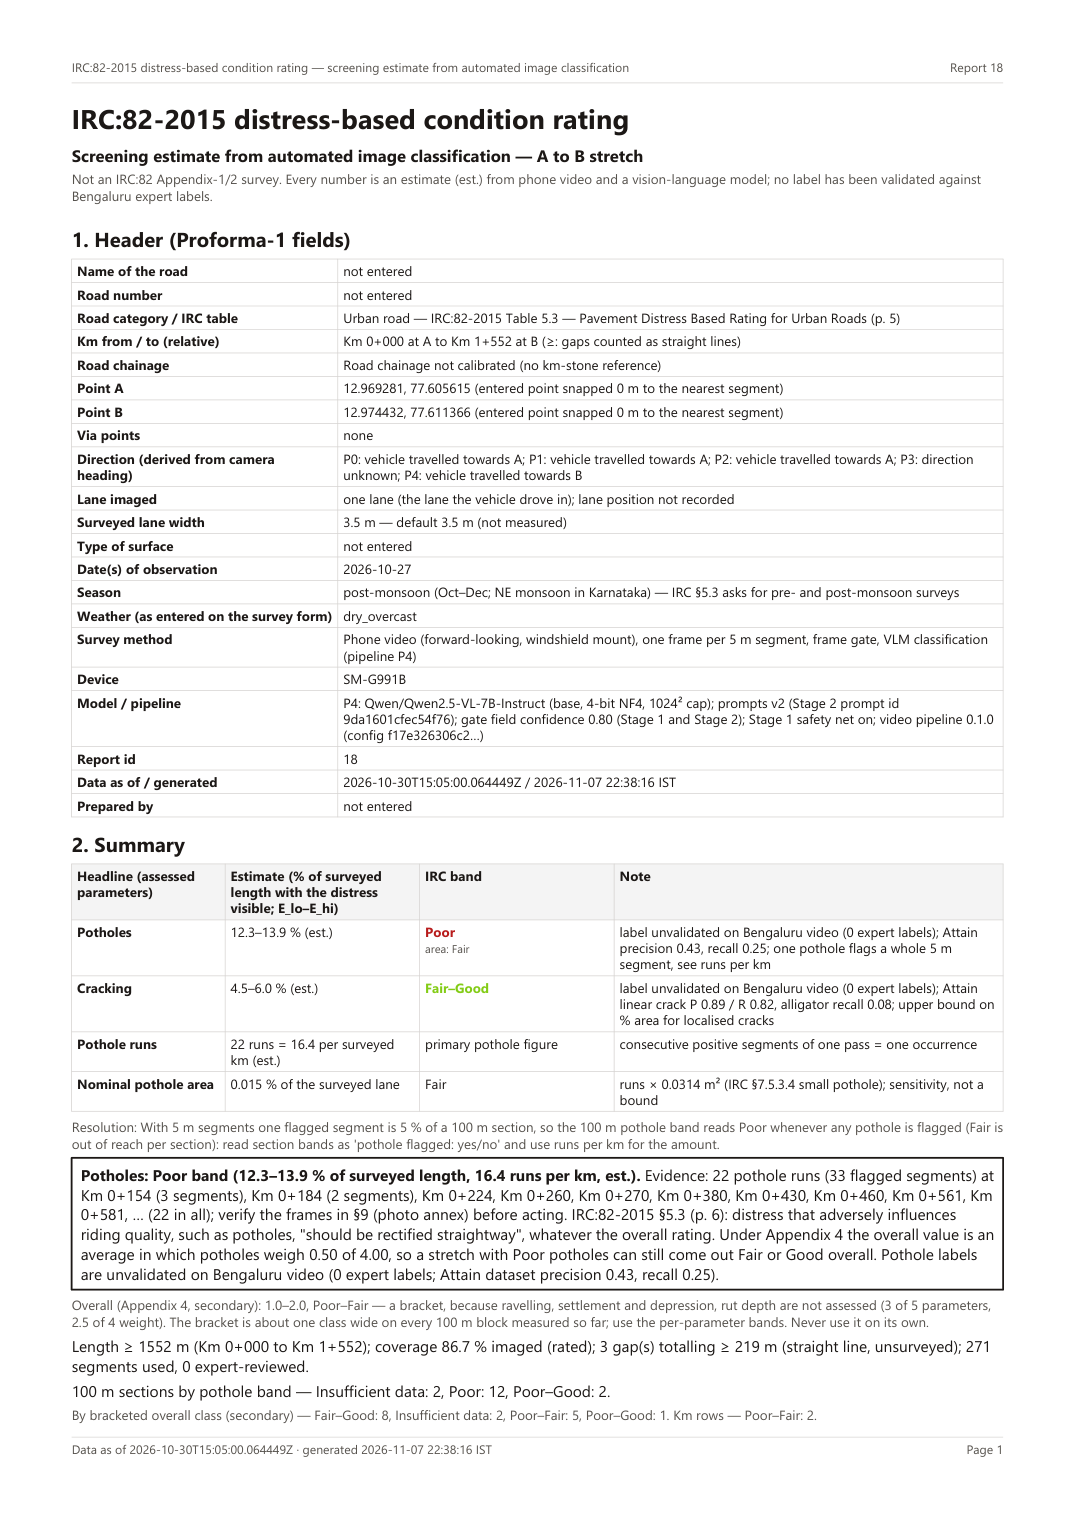
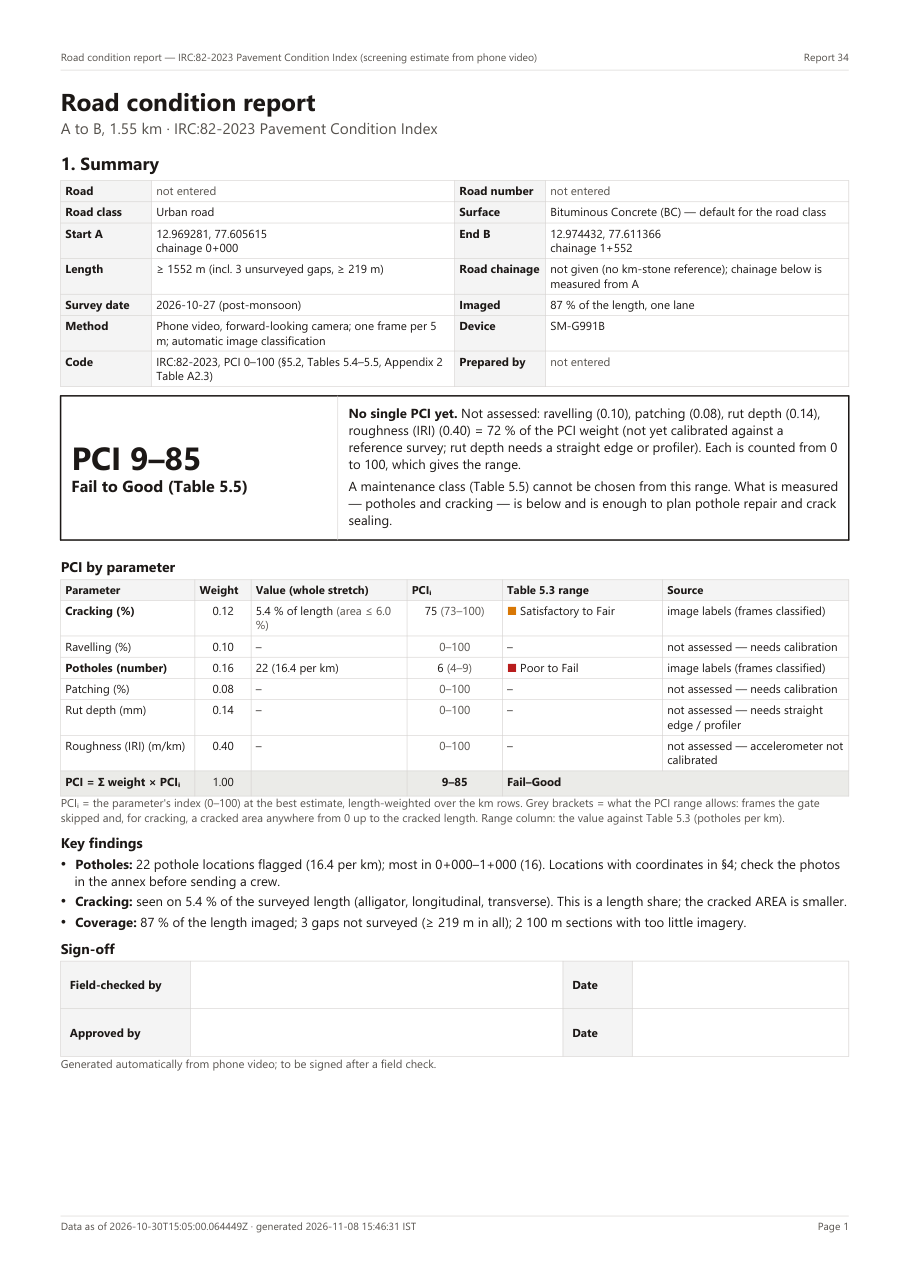
IRC:82-2023: samples regenerated (ids 33-40), paper §9.8, CLAUDE.md; resume file removed

Changed region(s): [[0.0615, 0.0311, 0.9231, 0.9635], [0.7385, 0.0932, 0.8923, 0.1243]]

diff --git a/paper/baseline_evaluation.md b/paper/baseline_evaluation.md
@@ -2,6 +2,8 @@
 
 ## Paper-Ready Sections + Technical Notes
 
+> **Revision 2026-11-08 — IRC:82-2023.** The A→B report now follows **IRC:82-2023 (Second Revision)**, which replaced the 2015 1–3 rating with a **Pavement Condition Index (PCI, 0–100)** over six parameters including roughness (IRI) (§9.8). Added: transcribed Appendix-2 equations with a worked-example check; per-type probe scores on all 7,050 video segments; a phone-accelerometer roughness feature on all drives; a survey calibration/blind-test tool with a pre-registered split; eight sample reports regenerated (ids 33–40). §9.1–9.7 are kept as the 2015 record.
+
 > **Revision 2026-11-07 — chainage and IRC:82 condition rating.** Added §9: relative chainage along the surveyed track and the IRC:82-2015 distress-based rating (Tables 5.1–5.3, Appendix 4) for any stretch A→B picked in the WebGIS, with a downloadable report, eight pre-registered sample reports, validation and three rounds of independent review. Two statements in §8.9 corrected ("% of length" is not IRC's area; chainage now derived).
 >
 > **Revision 2026-09-23.** Added: field-restricted Stage 2 confidence (§3.4), threshold
@@ -1425,7 +1427,7 @@ A drive appears on the GIS map when it is stored: the GIS reads the database dir
 
 ---
 
-## 9. Chainage and an IRC:82-2015 Condition Rating for a Chosen Stretch (A → B)
+## 9. Chainage and an IRC:82 Condition Rating for a Chosen Stretch (A → B)
 
 A road engineer plans maintenance by stretch and by kilometre, not by photograph. This section adds the two
 quantities an Indian maintenance plan is written in — **chainage** and the **IRC:82-2015 distress-based
@@ -1527,12 +1529,12 @@ segments were relabelled afterwards is marked stale. Saving to the portal requir
 rate-limited per client; previews and downloads are open. API: `/gis/pci/{meta,path,report,report.pdf,
 report.csv,reports}`; storage `research.pci_reports` (migration 009).
 
-![Figure 9.1 — Route and strip chart of sample report 2 (random 1 km stretch, 27 Oct)](../eval_results/plots/paper/fig_9_1_sample_route_strip.png)
+![Figure 9.1 — Route page of sample report 34 (random 1 km stretch, 27 Oct)](../eval_results/plots/paper/fig_9_1_sample_route_strip.png)
 
-**Figure 9.1** — Page 2 of a sample report as produced by the server: the surveyed path over an OpenStreetMap
-street map, coloured by the pothole band each 100 m section's labels show (white dashes where gate-skipped frames
-could make it worse), chainage ticks from A, three unsurveyed gaps (dashed, "≥ 219 m" in total), and a location
-map with the surrounding localities.
+**Figure 9.1** — Page 2 of sample report 34 (IRC:82-2023 version, §9.8): the surveyed path over an OpenStreetMap
+street map, each 100 m section coloured by the worst Table 5.3 range of its measured parameters (not by PCI, which
+is still a range), pothole runs as rings, chainage ticks from A, three unsurveyed gaps (dashed), and a location map.
+Page 1 (summary, headline PCI range, the six-parameter table) is `fig_9_2_sample_page1.png`.
 
 ### 9.5 Results
 
@@ -1627,6 +1629,71 @@ The reviews are in `eval_results/pci/REVIEW_design.md`, `REVIEW_backend.md` and 
    per-parameter band from expert labels with those from model labels, with the block-bootstrap intervals used in
    §6. Calibrating one drive to a km stone, or measuring a few stretches with a measuring wheel, would give the
    missing chainage-length check.
+
+### 9.8 Move to IRC:82-2023: a 0–100 PCI, and what it takes to make it a single number
+
+**Why.** The owner plans to compare the report with an actual road survey, which will follow the current code.
+IRC:82-2023 (Second Revision; Council approval of the draft October 2022) replaced the 2015 method: §5.2 defines
+a **PCI from 0 to 100** = Σ wᵢ·PCIᵢ with weights **IRI 0.40, potholes 0.16, rut depth 0.14, cracking 0.12,
+ravelling 0.10, patching 0.08** (Table 5.4); PCIᵢ comes from per-class equations (Appendix 2, Tables A2.1–A2.3:
+highways, MDR/rural, urban); Table 5.5 maps the PCI to six classes (>90 Excellent … ≤20 Fail), each with a
+maintenance action. Potholes are now a **number** (area / 0.1 m², eq. 2), extents are over all lanes of a
+carriageway, sections 100–1000 m, and settlement and shoving are no longer rated. We read a third-party hosted copy
+whose title page is IRC's; the owner should confirm it against an official copy.
+
+**Equations.** Appendix 2 prints its equations as images; we transcribed them (`app/pci_irc2023.py`,
+`eval_results/pci/IRC82_2023.md`) and an independent critic agent re-read every coefficient from the page images
+(digit-for-digit agreement). Checks: every usable equation gives PCI ≈ 80 at the Tables 5.1–5.3
+Excellent-to-Good limit and ≈ 40 at the Satisfactory-to-Fair limit, and follows its printed curve. The three
+**highway** worked examples reproduce within 0.53 points (93.88 / 40.84 / 20.56 vs 93.58 / 41.37 / 20.54); the
+three **urban** examples do not (−1.6, −10.0, −7.1): the gap is the roughness term, which no printed curve gives
+(unexplained). Three printed equations are **not usable**: the MDR/rural pothole polynomial rises to 192 at 10
+potholes while its curve falls to 0 (a missing linear term near −19.25·PN would reproduce examples B.1–B.3 within
+1.4 points, but that is a reconstruction), and the rural roughness equations for surface dressing and mix-seal
+surfacing (an Excellent road scores 0.6). These are reported "not computable" and bracketed, never guessed.
+
+**What each parameter comes from** (in order; `app/pci_core.pci_unit`): a value entered from site; a calibrated
+per-type probe score (ravelling, patching, rut-depth proxy, or cracking/potholes); calibrated phone-accelerometer
+roughness (IRI); Stage 2 labels (cracking = % of surveyed length, an upper bound on % area; potholes = runs of
+consecutive pothole frames); otherwise **not assessed**, counted as PCIᵢ = 0 and 100, which gives the PCI range.
+A single PCI is printed only when all six have values and none comes from uncalibrated labels. The stretch PCI is
+the length-weighted mean of the km rows (IRC analyses 100–1000 m; a pothole count over a longer stretch is off the
+equations' scale).
+
+**New measurements.** (i) The per-type probe (§6.8) was run on all **7,050** stored segment images (1.8 s each,
+0 errors; `research.video_probe_scores`): it gives P(yes) for ravelling, patching and rutting, which the free-form
+list never names. These are scores, not labels: the Attain thresholds do not transfer (§6.8), so they become
+values only through calibration. (ii) The phone recorded its accelerometer at 200 Hz on every drive. The roughness
+feature is the RMS of vertical acceleration, 0.5–15 Hz (above that, the engine's ≈ 25 Hz firing line dominates),
+over each 5 m segment, speed-normalised (`app/pci_iri.py`, 8,110 usable segments). On synthetic quarter-car data
+it recovers the IRI ranking (Spearman 0.991 across a different car, mount and noise); on real data it separates
+pothole-labelled segments (AUC 0.68 [0.65, 0.72]); but the idle noise floor is high (0.26 vs 0.66 m/s² moving;
+pre-registered limit failed) and repeatability could not be tested (3 qualifying repeated 100 m blocks). A phone
+on a windshield of an unknown car gives **no absolute IRI** without calibration against a reference.
+
+**Results (eight sample reports, ids 33–40, urban).** With only cracking and potholes assessed (0.28 of the
+weight), every stretch PCI is a wide range — from 3–90 to 15–97, "Fail to Good" — and the median width over the
+151 rated 100 m sections is **79 points** (72–85). The report states this plainly (no single PCI, which parameters
+are missing and why) and gives what *is* actionable: pothole locations by chainage with photographs, cracking share,
+and the distress-specific treatments of IRC:82-2023 §7 with clause numbers.
+
+**Closing the gap: calibration on a reference survey, tested blind.** `scripts/pci_survey_compare.py` imports a
+survey (per section: start/end GPS, any of the six parameters, the survey's PCI). A split **registered before any
+survey data** (`eval_results/pci/survey_split_rule.json`) assigns alternate blocks of three consecutive sections to
+a calibration half and a test half. On the calibration half it fits, per parameter, a probe threshold and scale (or
+a label scale) by mean absolute error in PCIᵢ points, and the IRI calibration (log-linear in RMS and speed); a
+parameter is used only if it beats a constant in-sample. Agreement is reported **only on the test half**: MAE of
+the single PCI and of a **partial PCI** over the parameters both sides have (addendum, registered before data,
+because rut depth may stay unmeasurable), each beside a constant baseline with block-bootstrap CIs, Spearman ρ,
+Bland–Altman limits and Table 5.5 class agreement. A ledger marks any refit after a test as post hoc, and a
+calibration reaches production only after its own blind evaluation. The tool was checked end to end on a synthetic
+survey built from our own probe scores (it recovers the planted thresholds); that check shows the plumbing works and
+says nothing about accuracy. The split interleaves sections of the same roads, so the test measures transfer within
+the surveyed roads.
+
+**Limitations specific to 2023.** One lane is imaged while IRC extents and IRI are carriageway means; rut depth
+needs a straight edge or profiler and has only a weak image proxy; a pothole run is counted as one pothole of at
+least one 0.1 m² unit; the roughness calibration is specific to the car, the mount and the phone.
 
 ## Acknowledgements
 

diff --git a/CLAUDE.md b/CLAUDE.md
@@ -105,7 +105,7 @@ for everything below.
 | Worker time per upload | ~11 s at 1024² (272 s uncapped), + ~1.5 s shadow probe, + ~6.5 s recorded tiles | A5000 | §6.6, T7 |
 | Production review load | 213 of 361 uploads in expert_review | Bengaluru | T7.2 |
 | Grad-CAM of the probe vs location prior | pointing hit 0.258 vs 0.226, Δ +0.032 [−0.042, +0.130] — FAIL; pothole +0.31, suggested boxes IoU≥0.5 on ≤2% | Attain, 1,884 pairs | §6.10 |
-| IRC:82 condition rating, A→B (drive video) | overall Appendix-4 class never a single class (0 of 408 100 m blocks, bracket ≥ 1.0); pothole band at 100 m = presence flag (Fair 0/408); test–retest positive agreement 10/15 Distress [0.42, 0.85]; chainage length vs independent reference NOT measured | 43 drives, 8 pre-registered samples | §9 |
+| IRC:82-2023 PCI (0–100), A→B (drive video) | only cracking + potholes assessed (0.28 of the weight) → every PCI a range (samples 3–90 … 15–97; median width 79 points over 151 100 m sections); no single PCI until a reference survey calibrates ravelling/patching/IRI (rut depth: entered or proxy). Equations: highway examples within 0.53, urban examples off by −1.6/−10.0/−7.1 (unexplained), MDR/rural pothole + rural SD/MSS roughness equations unusable as printed. Phone-IMU roughness: pothole AUC 0.68, idle-noise check FAILED, repeatability untestable. 2015 record (Appendix-4 class never single, 0/408) kept in §9.1–9.7 | 43 drives, 8 pre-registered samples (ids 33–40) | §9.8 |
 | Weight-space programming (Stage 1, head 26.17 edit) | test recall 51.7% → 74.8%, MCC 0.208 → 0.333; recalibrated base (+1.56 logit) 77.1% / 0.352 — edit − recal MCC −0.019 [−0.036, −0.006] — NOT better; AUROC unchanged 0.957 | Attain test, 547 (1 run, 32/50 passes) | §6.11 |
 
 **What is decided (with evidence — don't re-litigate without new data):**
@@ -119,7 +119,7 @@ for everything below.
 | Probe in shadow, not live | doubles Attain macro MCC, but Attain thresholds add Ravelling to 98% of Bengaluru uploads | §6.8 |
 | Full photo, tiles recorded only | tiles +0.020 AUROC (CI incl. 0); find-then-zoom worse | §6.9, Fig 6.9 |
 | Grad-CAM only as an opt-in reference overlay (owner's request), never a box source | fails pre-registered rule vs location prior; maps are points, not regions; UI shows its hit rate, experts rate it | §6.10, §7.11 |
-| Condition rating = IRC:82-2015 Tables 5.1–5.3 + App. 4, never ASTM PCI; only cracking + potholes assessed, the rest bracketed 1–3; headline = per-parameter bands + pothole runs/km | ravelling/settlement never labelled (Poor unreachable otherwise); 3 critic rounds | §9, `eval_results/pci/` |
+| Condition rating = **IRC:82-2023 PCI 0–100** (§5.2, Tables 5.4–5.5, Appendix 2), moved from 2015 on 2026-11-08 at the owner's request; never ASTM; unknown parameters bracketed 0/100, never guessed; single PCI only when all six have values and none from uncalibrated labels; stretch PCI = length-weighted mean of km rows | the owner will compare with an actual survey that follows the current code; 3 critic rounds (2015) + 1 (2023, `REVIEW_2023.md`) | §9.8, `eval_results/pci/IRC82_2023.md` |
 | No weight edit in production (and no LoRA/QLoRA/PEFT ever, user's rule) | the best forward-pass-only edit only moves the Stage 1 threshold (every edit ≈ a logit shift, AUROC flat); a constant offset does it slightly better; Bengaluru Distress share 19.7% → 36.7%. If more Stage 1 recall is wanted: set an offset on expert-labelled Bengaluru frames | §6.11, §7.12, `eval_results/finetune/` |
 
 **Next steps, in order:**
@@ -153,7 +153,7 @@ for everything below.
    edit study needs new held-out data. Not attempted: editing the Stage 2 free-form list. The abandoned QLoRA plan
    (`scripts/ft_train.py`, `ft_eval.py`, `ABANDONED.md`) is kept unused. Memory: project_weight_space_programming.
 
-8. **A→B chainage + IRC:82 condition report (built 2026-11-07, paper §9):** WebGIS "Condition report" button (`webgis/pci.js`, `pci.css`) → `/gis/pci/{meta,path,report,report.pdf,report.csv,reports}` (`app/pci_core.py` rating, `pci_chainage.py` survey graph + relative chainage, `pci_report_pdf.py`, `pci_routes.py`; save needs the operator key; `research.pci_reports`, migration 009). 8 sample reports in production (ids 17–24; route figures over an OpenStreetMap street map via `app/pci_basemap.py`, tiles cached in `C:\GeoAI\pci\tile_cache`, `PCI_BASEMAP=0` turns it off) from the pre-registered rule `eval_results/pci/samples_rule.json`; after any PDF change run `scripts/pci_samples.py --database geoai --regenerate`, then `scripts/pci_validation.py --database geoai --redo samples`. Research/design/reviews/validation: `eval_results/pci/{RESEARCH,DESIGN,REVIEW_*,validation}.md`. Tests `scripts/tests/test_pci_*.py` (31); `test_local_db`/`test_expert_review` DROP `geoai_test` → re-run `scripts/pci_copy_to_test_db.py` after them. **Open:** expert labels on video sections (protocol §9.7); pothole labels look over-called (shadows); km-stone calibration or wheel-measured stretch for chainage length.
+8. **A→B chainage + IRC:82-2023 PCI report (built 2026-11-07, moved to IRC:82-2023 on 2026-11-08, paper §9/§9.8):** WebGIS "Condition report" button (`webgis/pci.js`, `pci.css`) → `/gis/pci/{meta,path,report,report.pdf,report.csv,reports}` (`app/pci_irc2023.py` equations, `app/pci_core.py` `pci_unit` (2015 rating kept internally), `pci_chainage.py` survey graph + relative chainage, `pci_report_pdf.py` + `pci_treatments_2023.py`, `pci_routes.py`; request takes `surface` and `entered` site values; save needs the operator key; `research.pci_reports`, migration 009). 8 sample reports in production (**ids 33–40**; OpenStreetMap basemap via `app/pci_basemap.py`, `PCI_BASEMAP=0` off). Regenerate after any PDF change: `scripts/pci_samples.py --database geoai --regenerate`, then `scripts/pci_validation.py --database geoai --redo samples` — **run them WITHOUT sourcing .env in bash** (it strips the backslashes from LOCAL_IMAGE_ROOT and every annex photo goes missing; the scripts read .env themselves). New data: per-type probe P(yes) on all 7,050 segments (`research.video_probe_scores`, migration 010, `scripts/video_probe_scores.py`); phone-IMU roughness features on all drives (`research.segment_roughness`, migration 011, `app/pci_iri.py`, `scripts/iri_from_imu.py`, `eval_results/pci/iri/`). **Survey comparison:** `scripts/pci_survey_compare.py check|fit|evaluate|promote SURVEY.csv` (template `eval_results/pci/survey_template.csv`; pre-registered split + addendum `eval_results/pci/survey_split_rule.json`; `fit` writes only candidates; `promote` copies to the live `eval_results/pci/param_calibration.json` + `iri/iri_calibration.json` only after a logged blind evaluate; never use `--out-dir` with the real survey). Tests `scripts/tests/test_pci_*.py` (72 incl. irc2023, survey, iri); `test_local_db`/`test_expert_review` DROP `geoai_test` → re-run `scripts/pci_copy_to_test_db.py` after them. **Open:** the reference survey (then fit → evaluate → promote → regenerate samples); owner to confirm the 2023 equations against an official IRC copy; expert labels on video; pothole labels over-called (shadows, manholes); km-stone calibration for chainage length.
 
 **Where things are:**
 - Research paper: `paper/baseline_evaluation.md` (§T7 = deployment record, test suites, incidents).

diff --git a/eval_results/pci/validation.md b/eval_results/pci/validation.md
@@ -1,6 +1,6 @@
 # Validation — A→B chainage and IRC:82-2015 condition rating
 
-Generated 2026-11-07T17:09:54+00:00 by `venv/Scripts/python.exe scripts/pci_validation.py --database geoai --redo samples` on database `geoai` (data as of 2026-10-30T15:05:00.064449Z). Every number below is from that run (`eval_results/pci/validation.json`).
+Generated 2026-11-08T10:17:12+00:00 by `venv/Scripts/python.exe scripts/pci_validation.py --database geoai --redo samples` on database `geoai` (data as of 2026-10-30T15:05:00.064449Z). Every number below is from that run (`eval_results/pci/validation.json`).
 
 ## 1. IRC arithmetic
 
@@ -102,14 +102,14 @@ Time-adjacent gaps: OSM route / straight line over 34 of 36 gaps with an OSM rou
 
 | id | rule | requested trip m | routed m | coverage | gaps | cracking band (E) | pothole band (E) | runs/km | overall (secondary) |
 |---|---|---|---|---|---|---|---|---|---|
-| 17 | longest_drive | – | 8309.6 | 0.992 | 0 (≥ 0 m) | Poor (18.1–22.4) | Poor (5.6–9.9) | 7.0 | Poor–Fair (ravelling, settlement and depression, rut depth not assessed) |
-| 18 | random_1km_2026-10-27_1 | 1000 | 1551.7 | 0.867 | 3 (≥ 219.0 m) | Fair–Good (4.5–6.0) | Poor (12.3–13.9) | 16.4 | Poor–Fair (ravelling, settlement and depression, rut depth not assessed) |
-| 19 | random_1km_2026-10-27_2 | 1000 | 1004.3 | 0.961 | 1 (≥ 50.5 m) | Poor (24.9–25.6) | Poor (12.4–13.1) | 19.7 | Poor–Fair (ravelling, settlement and depression, rut depth not assessed) |
-| 20 | random_1km_2026-10-27_3 | 1000 | 1004.4 | 0.940 | 1 (≥ 62.0 m) | Fair (7.9–9.2) | Poor (16.4–17.7) | 22.2 | Poor–Fair (ravelling, settlement and depression, rut depth not assessed) |
-| 21 | random_1km_2026-10-29_1 | 1000 | 1003.7 | 0.782 | 2 (≥ 233.4 m) | Good (1.3–2.0) | Poor (5.1–5.8) | 6.4 | Fair–Good (ravelling, settlement and depression, rut depth not assessed) |
-| 22 | random_1km_2026-10-29_2 | 1000 | 1024.3 | 0.888 | 1 (≥ 113.6 m) | Good (0.5–3.5) | Poor (1.1–4.0) | 1.1 | Fair–Good (ravelling, settlement and depression, rut depth not assessed) |
-| 23 | random_1km_2026-10-29_3 | 1000 | 1003.9 | 0.996 | 0 (≥ 0 m) | Poor (27.0–30.4) | Poor (2.0–5.4) | 4.0 | Poor–Fair (ravelling, settlement and depression, rut depth not assessed) |
-| 24 | two_gaps | – | 795.7 | 0.795 | 2 (≥ 163.1 m) | Fair (6.3–6.6) | Poor (7.1–7.4) | 12.6 | Poor–Fair (ravelling, settlement and depression, rut depth not assessed) |
+| 33 | longest_drive | – | 8309.6 | 0.992 | 0 (≥ 0 m) | Poor (18.1–22.4) | Poor (5.6–9.9) | 7.0 | Poor–Fair (ravelling, settlement and depression, rut depth not assessed) |
+| 34 | random_1km_2026-10-27_1 | 1000 | 1551.7 | 0.867 | 3 (≥ 219.0 m) | Fair–Good (4.5–6.0) | Poor (12.3–13.9) | 16.4 | Poor–Fair (ravelling, settlement and depression, rut depth not assessed) |
+| 35 | random_1km_2026-10-27_2 | 1000 | 1004.3 | 0.961 | 1 (≥ 50.5 m) | Poor (24.9–25.6) | Poor (12.4–13.1) | 19.7 | Poor–Fair (ravelling, settlement and depression, rut depth not assessed) |
+| 36 | random_1km_2026-10-27_3 | 1000 | 1004.4 | 0.940 | 1 (≥ 62.0 m) | Fair (7.9–9.2) | Poor (16.4–17.7) | 22.2 | Poor–Fair (ravelling, settlement and depression, rut depth not assessed) |
+| 37 | random_1km_2026-10-29_1 | 1000 | 1003.7 | 0.782 | 2 (≥ 233.4 m) | Good (1.3–2.0) | Poor (5.1–5.8) | 6.4 | Fair–Good (ravelling, settlement and depression, rut depth not assessed) |
+| 38 | random_1km_2026-10-29_2 | 1000 | 1024.3 | 0.888 | 1 (≥ 113.6 m) | Good (0.5–3.5) | Poor (1.1–4.0) | 1.1 | Fair–Good (ravelling, settlement and depression, rut depth not assessed) |
+| 39 | random_1km_2026-10-29_3 | 1000 | 1003.9 | 0.996 | 0 (≥ 0 m) | Poor (27.0–30.4) | Poor (2.0–5.4) | 4.0 | Poor–Fair (ravelling, settlement and depression, rut depth not assessed) |
+| 40 | two_gaps | – | 795.7 | 0.795 | 2 (≥ 163.1 m) | Fair (6.3–6.6) | Poor (7.1–7.4) | 12.6 | Poor–Fair (ravelling, settlement and depression, rut depth not assessed) |
 
 Requested = metres along the drives' own trip (rule b); routed = the A→B path the router chose (it may use other drives, links and gaps, so it can differ).
 
